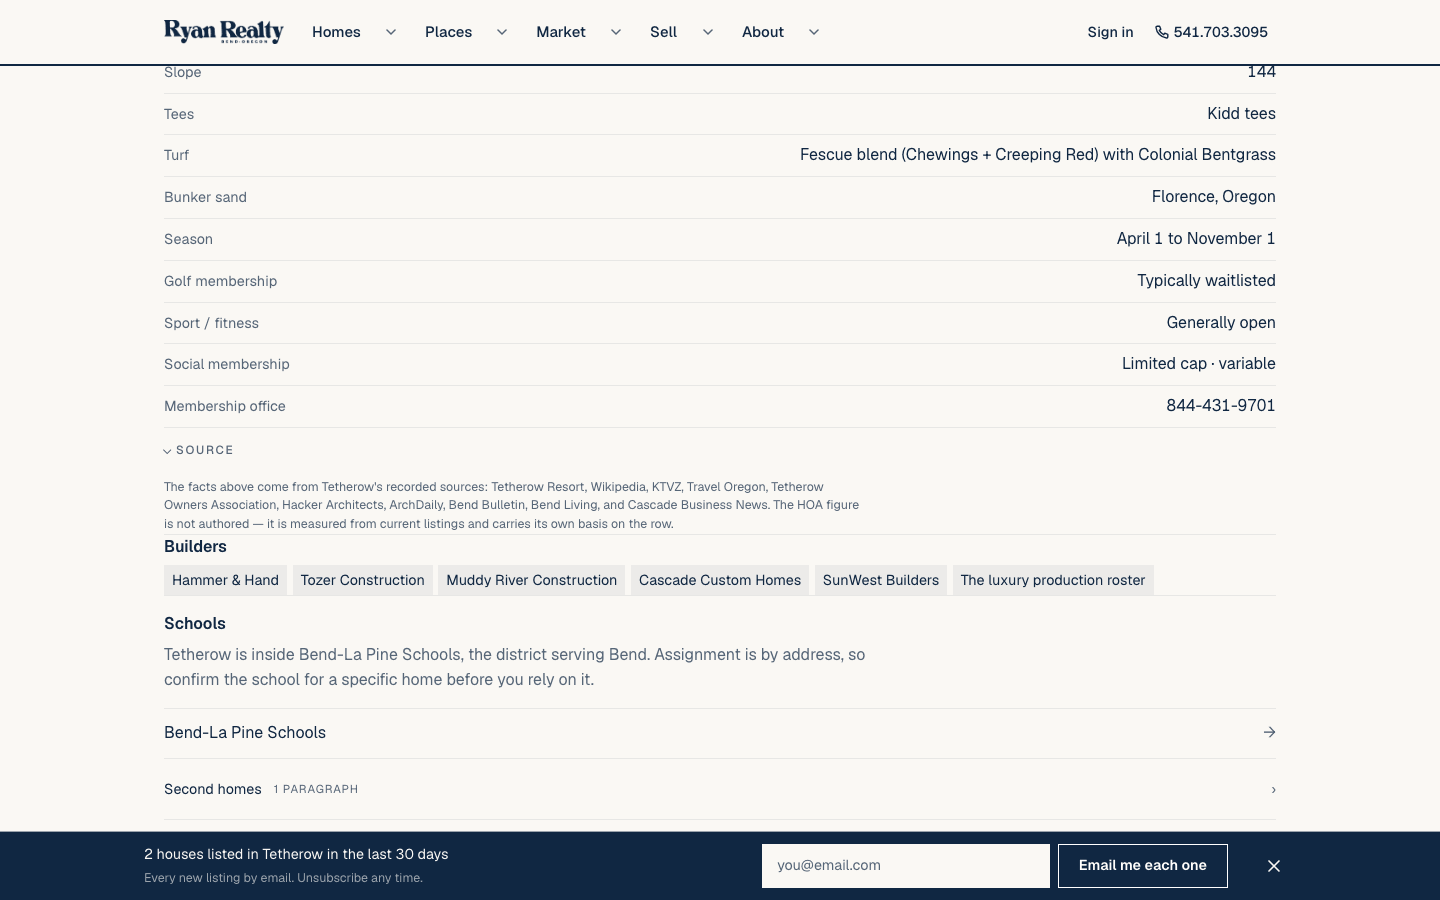
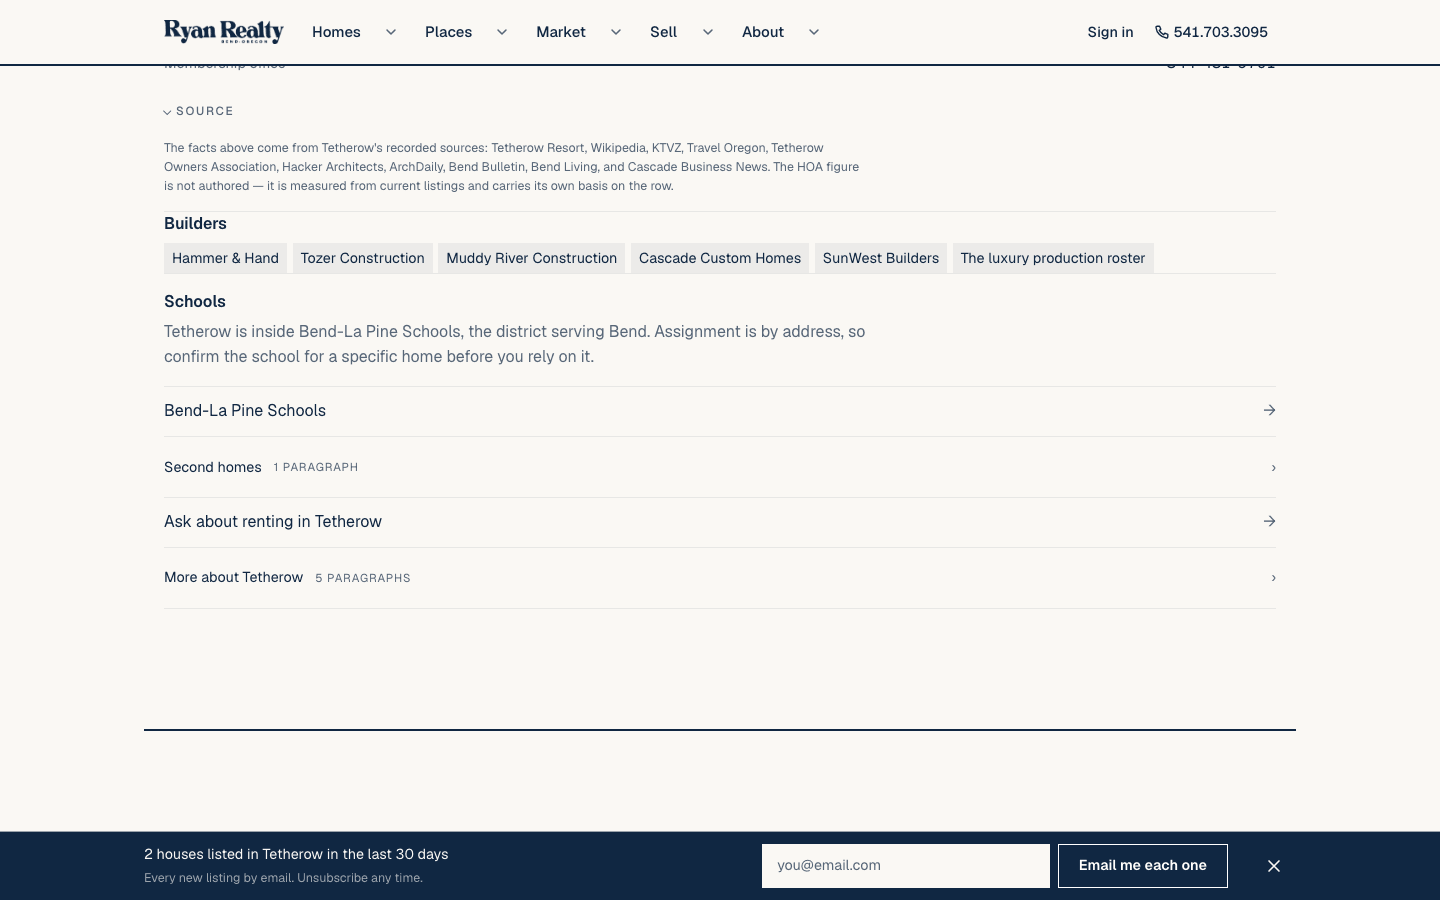
fix(taste): the community class scored on all three pages it can render, and its receipt
THE INSTRUMENT WIDENED, and that is why the number falls rather than rises against
the committed 80. That 80 scored ONE route, /communities/tetherow, the best page
in the class. SITE-28 is a defect of the members that instrument could not see, so
the shot set now carries all three kinds of page this route renders — a registry
community, a compound plat with no hero photograph and no authored knowledge, and
the new refusal — and TASTE scores a class by its weakest member. Recorded as
comparedToPrior "rebaselined" on shotsHash, not as a rise and not as a fall.

WITHIN THE WIDENED INSTRUMENT THE MARK ROSE EVERY ROUND: [64,69,59] median 64,
then [65,71,68] median 68, then [69,72,68] median 69. Each round re-shot and
re-scored after the round before named its defects. A separate claude-sonnet-5
evaluator, three scorings per round in one call; the builder ran on claude-opus-5.

CLOSED THIS SESSION, both inherited and both previously survived a round unfixed:
  - #belonging published "Founded 2008", "Acres 700", "Course architect David
    McLay Kidd" and "Ranked #57 (Golf Digest)" with ZERO source elements on the
    page. The community config's own sources[] existed and nothing read it. It is
    now a V3SourceDisclosure closing the fact run (measured 5.6px from the last
    fact row, down from ~2,000px at the end of the block).
  - 41 undifferentiated hairline exits behind the doors fold on tetherow, and 31
[…]

diff --git a/app/communities/[slug]/_v3/community-display-name.ts b/app/communities/[slug]/_v3/community-display-name.ts
@@ -123,8 +123,22 @@ export async function resolveCommunityDisplayName(input: {
 
   // 1 + 2. Not an abbreviation, or a recorded expansion of one. Title-cased by
   // the same publisher /subdivisions uses, so the two routes cannot disagree.
+  //
+  // TESTED ON THE MLS SPELLING, PUBLISHED FROM THE PAGE'S OWN NAME. The two are
+  // different jobs. The test needs the MLS token because that is where the
+  // evidence is; the published string should stay whatever the page already had
+  // — a curated public.communities row, or a registry label reached through an
+  // alias — because that is the better-spelled of the two whenever they differ.
+  // Publishing the MLS token instead would quietly downgrade a curated name to
+  // its ingest spelling on every page that has one.
   const publishable = publishPlatDisplayName(token)
-  if (publishable) return { kind: 'publish', name: publishable, source: 'publishable-name' }
+  if (publishable) {
+    return {
+      kind: 'publish',
+      name: publishPlatDisplayName(raw) ?? publishable,
+      source: 'publishable-name',
+    }
+  }
 
   // Withheld. The only remaining honest names are recorded ones, looked up on
   // the token's own slug — exactly, never by prefix (C-21).

diff --git a/app/communities/[slug]/_v3/community-display-name.test.ts b/app/communities/[slug]/_v3/community-display-name.test.ts
@@ -90,6 +90,23 @@ describe('resolveCommunityDisplayName — the MLS spelling is what gets tested',
     }
   })
 
+  it('tests the MLS token but publishes the page\'s own better-spelled name', async () => {
+    // The MLS files this place under a short label; the page carries the
+    // curated one. The test runs on the token, the output keeps the curated
+    // spelling — publishing "Highlands" here would be a silent downgrade.
+    const r = await resolveCommunityDisplayName({
+      rawName: 'The Highlands At Broken Top',
+      mlsName: 'Highlands',
+      isCanonicalSlug: false,
+      readRecordedPlatLabel: noPlats,
+    })
+    expect(r).toEqual({
+      kind: 'publish',
+      name: 'The Highlands at Broken Top',
+      source: 'publishable-name',
+    })
+  })
+
   it('leaves a real MLS name alone — "Petrosa" is spelled the same either way', async () => {
     const r = await resolveCommunityDisplayName({
       rawName: 'Petrosa',

diff --git a/components/site/v3/V3Quiet.css b/components/site/v3/V3Quiet.css
@@ -161,12 +161,19 @@
 }
 
 /* The §0 trace under a Quiet holding authored fact rows. V3SourceLine already
-   carries the site's source register; this only gives it the block's measure
-   and its top spacing, so it sits where a reader looks for a source and never
-   competes with the facts above it. */
+   carries the site's source register; the row it sits in owns the spacing.
+
+   THE TRACE CLOSES THE FACT RUN, so it is a row of the list and not a footer,
+   and it carries no hairline of its own: the last fact's rule is already the
+   line above it, and a second would read as an empty row. */
+.v3-quiet__item--source {
+  border-top: 0;
+  padding: var(--v3-space-2xs) 0 var(--v3-space-md);
+}
+
 .v3-quiet__source {
   max-width: var(--v3-measure-text);
-  margin: var(--v3-space-md) 0 0;
+  margin: 0;
 }
 
 /* --- Fact rows -------------------------------------------------------------

diff --git a/components/site/v3/V3Answers.tsx b/components/site/v3/V3Answers.tsx
@@ -442,8 +442,11 @@ export function V3Answers({
                     <span aria-hidden="true" className="v3-answers__mark" />
                   </span>
                 </summary>
-                {groupDoors(edges).map((group) => (
-                  <div key={group.label ?? 'loose'} className="v3-answers__door-group">
+                {groupDoors(edges).map((group, groupIndex) => (
+                  <div
+                    key={group.label ?? `ungrouped-${groupIndex}`}
+                    className="v3-answers__door-group"
+                  >
                     {group.label ? (
                       <p className="v3-answers__door-group-label">{group.label}</p>
                     ) : null}
